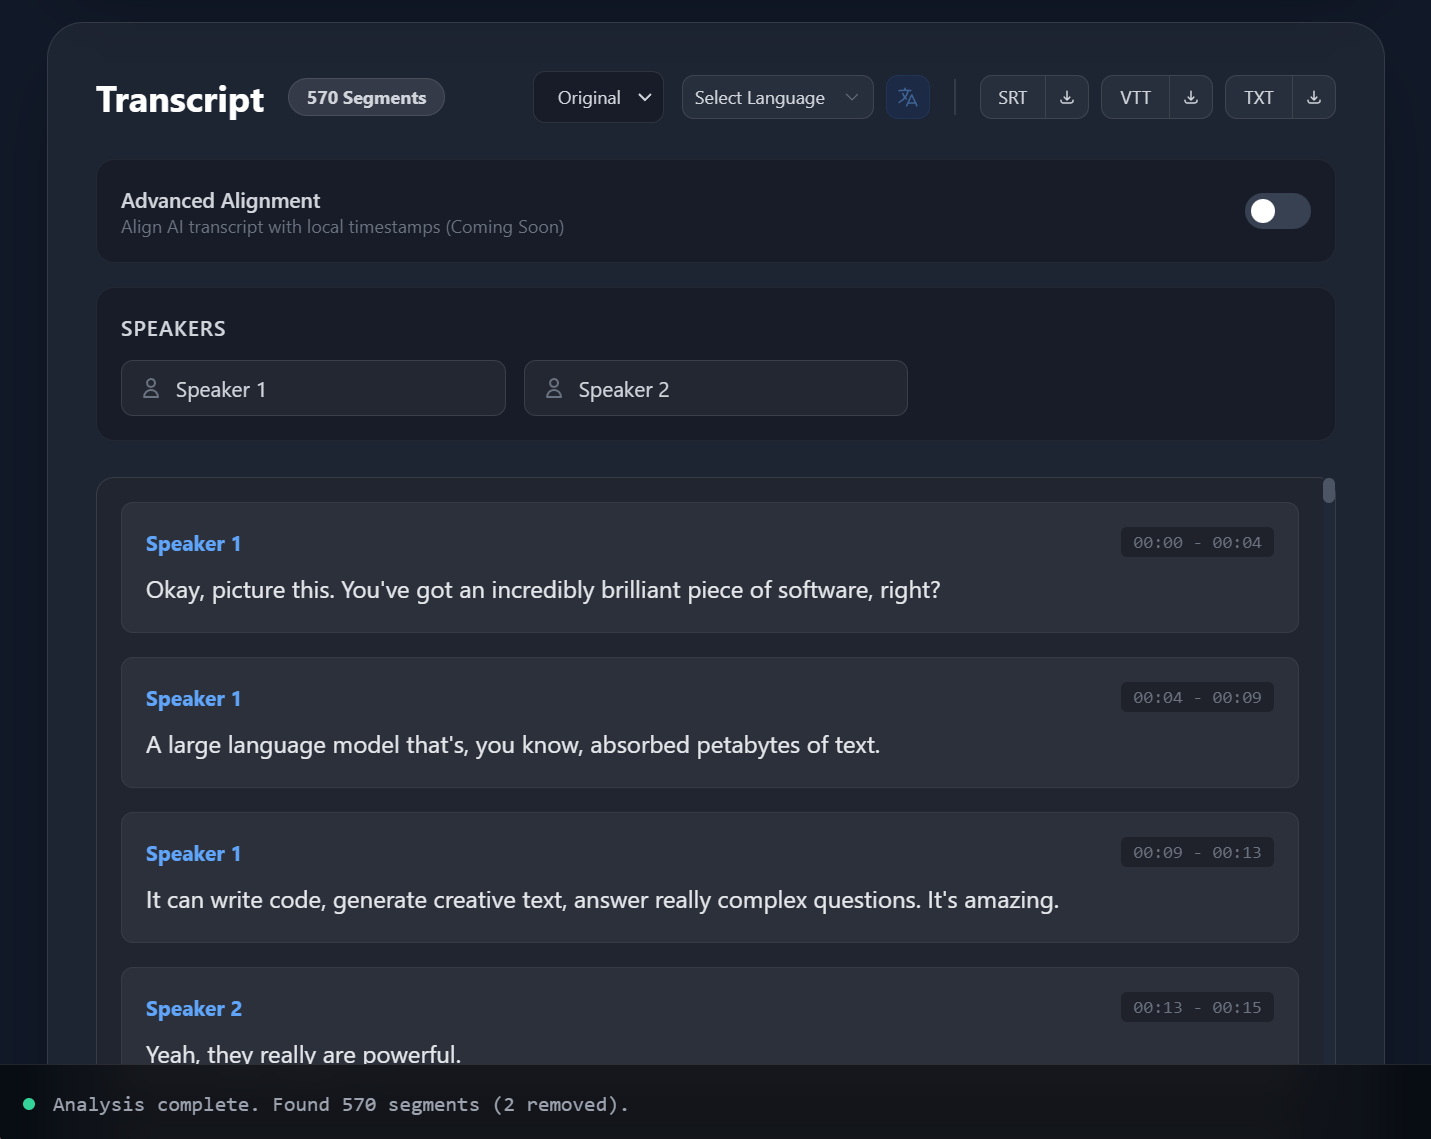
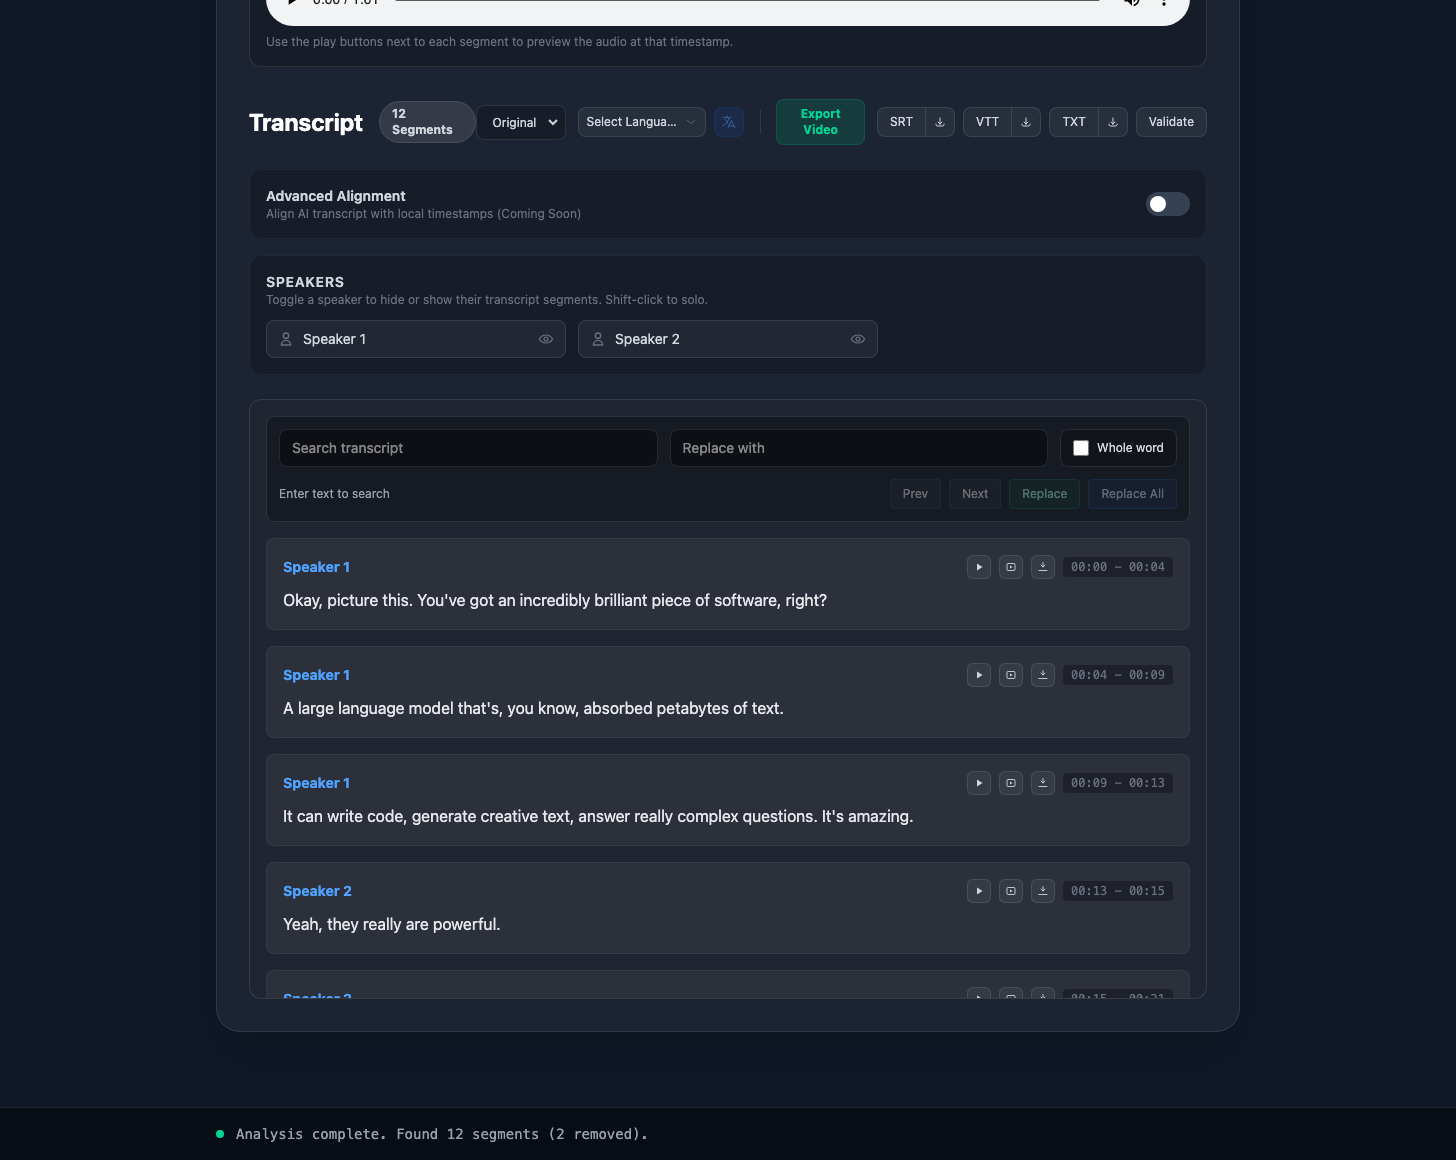
feat: add 'just screenshots' to auto-generate README preview images
- justfile with a screenshots recipe driving
scripts/generate-screenshots.mjs
- Playwright captures the Home source panel and transcript workspace
from a
  Vite dev server running in screenshot demo mode
- Demo mode (src/demo/screenshotDemo.ts, only loaded when
  VITE_SCREENSHOT_DEMO is set) mocks the Tauri IPC layer and seeds a
demo
  transcript session; app entry is now dynamically imported so seeding
runs
  before modules read persisted state
- Placeholder media is generated with ffmpeg into public/ for the
capture and
  removed afterwards (gitignored as a safety net)
- Regenerate both preview images to reflect the current UI; fix the
  preview_2 README caption (transcript editing, not viral clips)

diff --git a/src/demo/screenshotDemo.ts b/src/demo/screenshotDemo.ts
@@ -1,0 +1,93 @@
+// Screenshot demo mode: mocks the Tauri IPC layer and seeds demo state so the
+// app renders meaningful content in a plain browser. Only ever loaded when
+// VITE_SCREENSHOT_DEMO is set (see main.ts) — never part of a production build.
+import { mockConvertFileSrc, mockIPC, mockWindows } from '@tauri-apps/api/mocks';
+import {
+  createDefaultEditSession,
+  createDefaultLastAnalyzedSettings,
+} from '../utils/editSession';
+import { SESSION_STORAGE_KEY } from '../composables/useHomeSessionPersistence';
+import type { TranscriptSegment } from '../types';
+
+const DEMO_MEDIA_PATH = '/Users/demo/Videos/ai-deep-dive.mp4';
+
+const DEMO_SEGMENTS: TranscriptSegment[] = [
+  ["00:00", "00:04", "Speaker 1", "Okay, picture this. You've got an incredibly brilliant piece of software, right?"],
+  ["00:04", "00:09", "Speaker 1", "A large language model that's, you know, absorbed petabytes of text."],
+  ["00:09", "00:13", "Speaker 1", "It can write code, generate creative text, answer really complex questions. It's amazing."],
+  ["00:13", "00:15", "Speaker 2", "Yeah, they really are powerful."],
+  ["00:15", "00:21", "Speaker 2", "But the moment you point one at raw video, things get interesting fast."],
+  ["00:21", "00:27", "Speaker 1", "Exactly. Hours of footage, filler words everywhere, and somewhere in there is the good stuff."],
+  ["00:27", "00:33", "Speaker 2", "So the idea is simple: transcribe everything first, then edit the video by editing the text."],
+  ["00:33", "00:39", "Speaker 1", "Delete a sentence from the transcript and the cut happens automatically. No timeline scrubbing."],
+  ["00:39", "00:45", "Speaker 2", "And the same transcript powers subtitles, translations, even short viral clips."],
+  ["00:45", "00:50", "Speaker 1", "Which means the boring part of editing basically disappears."],
+  ["00:50", "00:56", "Speaker 2", "Right. You focus on the story, and the tooling handles the scissors."],
+  ["00:56", "01:01", "Speaker 1", "Let's walk through how that works under the hood."],
+].map(([start, end, speaker, text]) => ({ start, end, speaker, text }));
+
+type Scenario = 'home' | 'transcript';
+
+function currentScenario(): Scenario {
+  const demo = new URLSearchParams(window.location.search).get('demo');
+  return demo === 'transcript' ? 'transcript' : 'home';
+}
+
+function seedStorage(scenario: Scenario) {
+  localStorage.clear();
+  localStorage.setItem(
+    'llm-settings',
+    JSON.stringify({ apiKey: 'demo', model: 'gemini-2.5-flash' })
+  );
+
+  if (scenario === 'transcript') {
+    const session = createDefaultEditSession();
+    session.savedAt = new Date().toISOString();
+    session.transcriptWorkspace.inputPath = DEMO_MEDIA_PATH;
+    session.transcriptWorkspace.segments = DEMO_SEGMENTS;
+    session.transcriptWorkspace.speakerOrder = ['Speaker 1', 'Speaker 2'];
+    session.transcriptWorkspace.lastAnalyzedSettings = createDefaultLastAnalyzedSettings();
+    localStorage.setItem(SESSION_STORAGE_KEY, JSON.stringify(session));
+  }
+}
+
+export function setupDemoMode() {
+  const scenario = currentScenario();
+  seedStorage(scenario);
+  mockWindows('main');
+  mockConvertFileSrc('macos');
+  // Serve the placeholder media generated by scripts/generate-screenshots.mjs
+  // instead of the real asset protocol, which cannot resolve in a plain
+  // browser and leaves media elements stuck on a loading spinner.
+  (window as any).__TAURI_INTERNALS__.convertFileSrc = (path: string) =>
+    path.endsWith('.m4a') ? '/__demo-media__.m4a' : '/__demo-media__.mp4';
+
+  const statusMessage =
+    scenario === 'transcript'
+      ? `Analysis complete. Found ${DEMO_SEGMENTS.length} segments (2 removed).`
+      : 'FFmpeg is already installed.';
+
+  mockIPC((cmd, args) => {
+    switch (cmd) {
+      case 'init_ffmpeg':
+        return statusMessage;
+      case 'path_exists':
+        return true;
+      case 'write_text_file':
+      case 'allow_media_access':
+        return null;
+      case 'read_text_file':
+        // No transcript sidecar in demo mode; the session seed supplies segments.
+        return Promise.reject('demo: no sidecar');
+      case 'plugin:event|listen':
+        return 1;
+      case 'plugin:event|unlisten':
+        return null;
+      case 'plugin:updater|check':
+        return null;
+      default:
+        console.warn('[screenshot-demo] unmocked command:', cmd, args);
+        return null;
+    }
+  });
+}

diff --git a/src/main.ts b/src/main.ts
@@ -1,7 +1,13 @@
-import { createApp } from "vue";
-import "./style.css";
-import "flag-icons/css/flag-icons.min.css";
-import App from "./App.vue";
-import router from "./router";
+// The app entry is loaded dynamically so that screenshot demo mode (which
+// seeds localStorage and mocks the Tauri IPC layer) can run before any module
+// reads persisted state at import time.
+async function bootstrap() {
+  if (import.meta.env.VITE_SCREENSHOT_DEMO) {
+    const { setupDemoMode } = await import("./demo/screenshotDemo");
+    setupDemoMode();
+  }
+  const { mountApp } = await import("./app");
+  mountApp();
+}
 
-createApp(App).use(router).mount("#app");
+bootstrap();

diff --git a/src/app.ts b/src/app.ts
@@ -1,0 +1,9 @@
+import { createApp } from "vue";
+import "./style.css";
+import "flag-icons/css/flag-icons.min.css";
+import App from "./App.vue";
+import router from "./router";
+
+export function mountApp() {
+  createApp(App).use(router).mount("#app");
+}

diff --git a/README.md b/README.md
@@ -19,7 +19,7 @@
 *   **Export Options**: Export subtitles (SRT, VTT, TXT) or the cut video file directly.
 *   **Context-Aware**: Provide context and glossaries to the AI to improve transcription accuracy for technical terms or specific names.
 
-![Viral Clips Feature](dev-resources/preview_2.png)
+![Transcript Editing](dev-resources/preview_2.png)
 
 ## Installation
 
@@ -73,6 +73,14 @@ You can download the latest version for Windows and MacOS from the releases page
     ```bash
     pnpm tauri build
     ```
+
+#### Regenerating the preview screenshots
+
+The preview images above are generated from the live UI (with mocked backend data). With [`just`](https://github.com/casey/just) installed, run:
+
+```bash
+just screenshots
+```
 
 ## Testing
 
